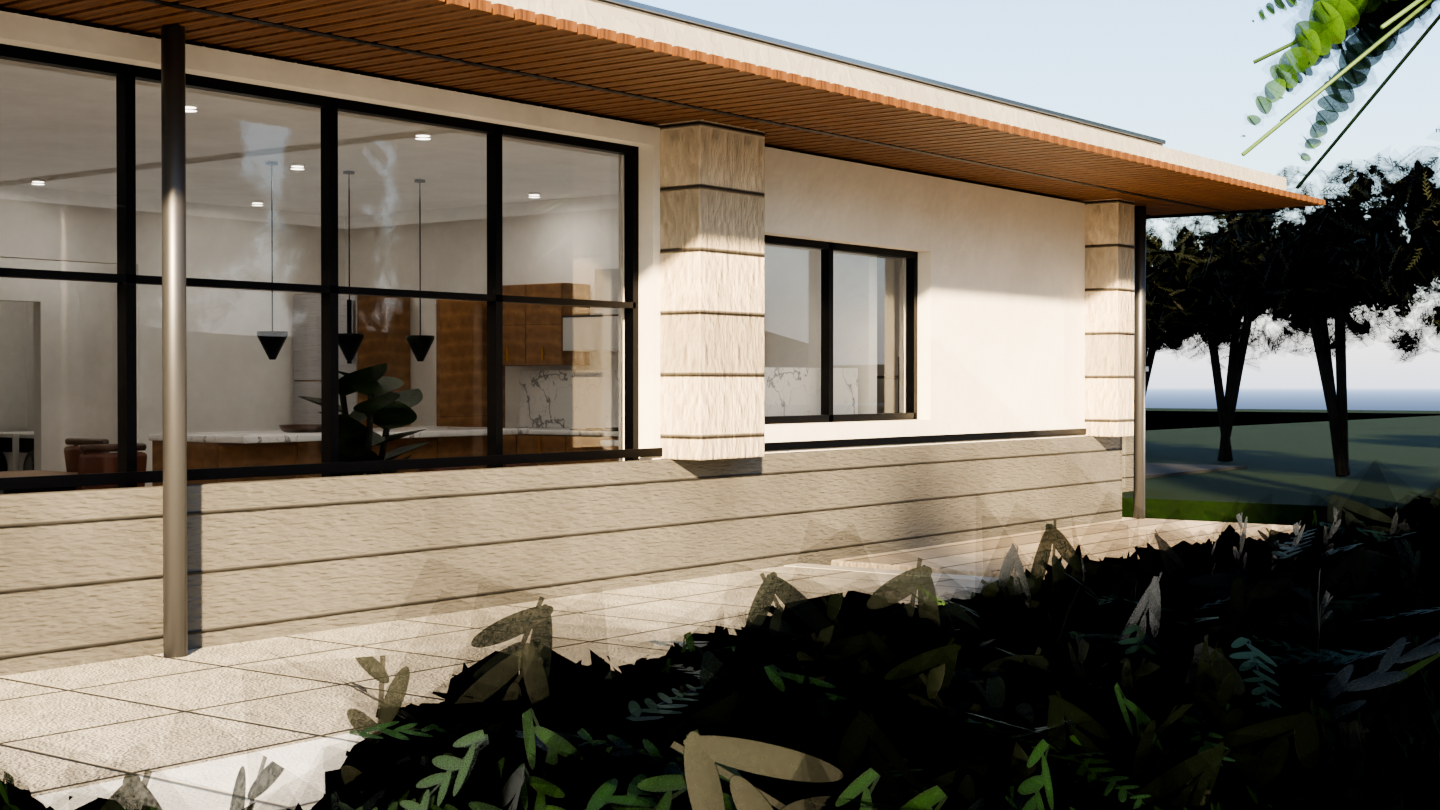
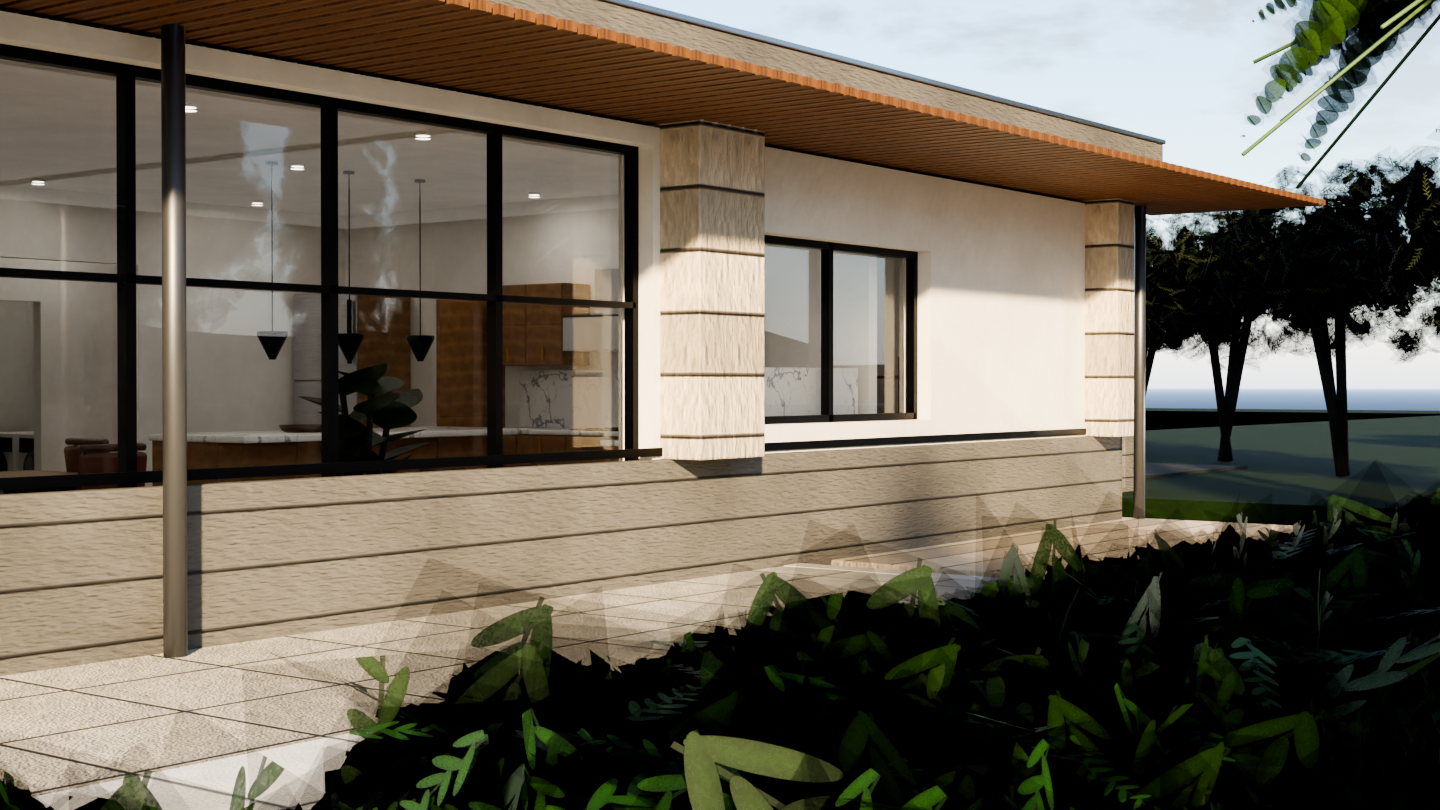
Villa v2 render pass 2: clouds, honest leaf albedo, a real entrance
- world shader: cumulus field sampled along the view direction (_sky_clouds); a flat
  physical-sky gradient was the loudest CGI tell. Cloud frequency tuned by test render
  (2.4 = one smear, 26 = TV static, 9 = weather)
- leaf sprays lifted ~1.6x: v1's 0.04 linear albedo rendered hedges at RGB 14/14/12, i.e.
  black; a real leaf is 0.09-0.15 linear. Translucency mix 0.22 -> 0.30
- entrance rebuilt: door closed and recessed 0.19 m with cedar lining, threshold, pull bar;
  1.45 m canopy with black fascia, timber soffit and two posts; gate caps are dark stone
  because polished metal facing up mirrors the sky and renders as a glowing white box
- exterior exposure -0.25 -> -0.55, sky strength 0.30 -> 0.42, entry bounce 420 W not cut
- hero_garden reframed (2.55 m eye, 33 mm); hero_entry recomposed on the driveway axis
- all 8 stills re-rendered 1440x810/96 spp; GLBs re-exported (723 meshes / 599,282 tris /
  75 materials, alphaMode MASK on 6 card materials, re-import PASS)

diff --git a/villa_src/build_v2.py b/villa_src/build_v2.py
@@ -132,6 +132,68 @@ def build(with_site=True):
     return sc_, ext
 
 
+def _sky_clouds(world, scale=9.0, cover0=0.50, cover1=0.61, brightness=3.1):
+    """Put a cumulus field in the world shader.
+
+    A physical sky on its own renders as a flat, pale gradient, which is the loudest
+    "this is CGI" tell in an exterior. Clouds are a noise field sampled along the view
+    direction: they converge at the horizon for free (perspective of the dome), cost one
+    texture lookup, and they also break up the environment light so surfaces are not lit
+    by a perfectly uniform dome.
+    """
+    if not (world and world.node_tree):
+        return None
+    nt = world.node_tree
+    bg = next((n for n in nt.nodes if n.type == "BACKGROUND"), None)
+    if bg is None or not bg.inputs["Color"].links:
+        return None
+    base = bg.inputs["Color"].links[0].from_socket
+    tc = nt.nodes.new("ShaderNodeTexCoord")
+    tc.location = (-1000, 300)
+    sep = nt.nodes.new("ShaderNodeSeparateXYZ")
+    sep.location = (-820, 420)
+    nt.links.new(tc.outputs["Generated"], sep.inputs["Vector"])
+    mp = nt.nodes.new("ShaderNodeMapping")
+    mp.location = (-820, 200)
+    mp.inputs["Scale"].default_value = (1.0, 1.0, 2.6)   # squash z: flat, layer-like cloud
+    nt.links.new(tc.outputs["Generated"], mp.inputs["Vector"])
+    n1 = nt.nodes.new("ShaderNodeTexNoise")
+    n1.location = (-620, 240)
+    n1.inputs["Scale"].default_value = scale
+    n1.inputs["Detail"].default_value = 5.0
+    n1.inputs["Roughness"].default_value = 0.58
+    n1.inputs["Distortion"].default_value = 0.18
+    nt.links.new(mp.outputs["Vector"], n1.inputs["Vector"])
+    ramp = nt.nodes.new("ShaderNodeValToRGB")
+    ramp.location = (-420, 240)
+    ramp.color_ramp.elements[0].position = cover0
+    ramp.color_ramp.elements[1].position = cover1
+    nt.links.new(n1.outputs["Fac"], ramp.inputs["Fac"])
+    # no clouds below the horizon (they would show through the ground edges)
+    hmask = nt.nodes.new("ShaderNodeMapRange")
+    hmask.location = (-420, 20)
+    hmask.inputs["From Min"].default_value = 0.03
+    hmask.inputs["From Max"].default_value = 0.30
+    nt.links.new(sep.outputs["Z"], hmask.inputs["Value"])
+    mul = nt.nodes.new("ShaderNodeMath")
+    mul.operation = "MULTIPLY"
+    mul.location = (-200, 140)
+    nt.links.new(ramp.outputs["Color"], mul.inputs[0])
+    nt.links.new(hmask.outputs["Result"], mul.inputs[1])
+    clim = nt.nodes.new("ShaderNodeRGB")
+    clim.location = (-200, -120)
+    clim.outputs[0].default_value = (brightness, brightness * 0.985, brightness * 0.96, 1.0)
+    mix = nt.nodes.new("ShaderNodeMix")
+    mix.data_type = "RGBA"
+    mix.location = (60, 40)
+    mix.inputs[0].default_value = 0.0
+    nt.links.new(mul.outputs["Value"], mix.inputs[0])
+    nt.links.new(base, mix.inputs[6])
+    nt.links.new(clim.outputs[0], mix.inputs[7])
+    nt.links.new(mix.outputs[2], bg.inputs["Color"])
+    return mix
+
+
 def lighting_v2(sc):
     """Late-afternoon raking sun: the single biggest change in the whole rebuild."""
     world = sc.world
@@ -143,10 +205,11 @@ def lighting_v2(sc):
             sky.sun_rotation = math.radians(232.0)      # from the south-west, low
             sky.sun_intensity = 1.0
             sky.altitude = 40.0
-            sky.aerosol_density = 2.6
+            sky.aerosol_density = 1.55
             sky.air_density = 1.1
         if bg:
-            bg.inputs["Strength"].default_value = 0.30   # sky as light
+            bg.inputs["Strength"].default_value = 0.42   # sky as light (fill for shade)
+    _sky_clouds(world)
     sun = bpy.data.objects.get("Sun")
     if sun:
         el = math.radians(20.0)
@@ -179,9 +242,9 @@ def lighting_v2(sc):
     # otherwise be the only dead-black wall on the house
     lg2 = bpy.data.lights.new("entry_bounce", type="AREA")
     lg2.shape = "RECTANGLE"
-    lg2.size, lg2.size_y = 4.0, 3.0
-    lg2.energy = 260.0
-    lg2.color = (1.0, 0.94, 0.88)
+    lg2.size, lg2.size_y = 6.0, 4.0
+    lg2.energy = 420.0
+    lg2.color = (1.0, 0.92, 0.84)
     ob2 = bpy.data.objects.new("entry_bounce", lg2)
     sc.collection.objects.link(ob2)
     ob2.location = (24.5, 5.2, 2.2)
@@ -218,7 +281,7 @@ def _setup_view(name):
     interior = name in ("living", "living_wide", "kitchen", "dining", "master", "corridor",
                         "foyer", "bed2", "bath", "study")
     sc = bpy.context.scene
-    sc.view_settings.exposure = (0.55 if interior else -0.25)
+    sc.view_settings.exposure = (0.55 if interior else -0.55)
     for ob in bpy.data.objects:
         if ob.type != "LIGHT":
             continue
@@ -226,7 +289,9 @@ def _setup_view(name):
             ob.data.energy = ob.get("_base", ob.data.energy)
             if "_base" not in ob:
                 ob["_base"] = ob.data.energy
-            if not interior and ob.name != "terrace_bounce":
+            # the terrace bounce stays for every view; the entry bounce is only ever
+            # there to lift the shaded east facade, so it is *not* cut on exteriors
+            if not interior and ob.name not in ("terrace_bounce", "entry_bounce"):
                 ob.data.energy *= 0.35
     return interior
 

diff --git a/villa_src/arch_v2.py b/villa_src/arch_v2.py
@@ -77,14 +77,43 @@ def facade_extras(coll):
                          mat="travertine_clad", bevel=0.006, coll=coll))
         out.append(K.box(f"head_n{i}", (b - a + 0.16, 0.20, 0.06), ((a + b) / 2, D + 0.04, 2.44),
                          mat="lime_render", bevel=0.004, coll=coll))
-    # east side: entry canopy + door surround
-    out.append(K.box("entry_canopy", (0.30, 2.60, 0.16), (W + 0.30, 5.20, 2.62),
-                     mat="timber_slat", bevel=0.008, coll=coll))
-    for i in range(6):
-        out.append(K.box(f"canopy_batten{i}", (0.10, 2.60, 0.05), (W + 0.44, 5.20,
-                                                                 2.48 - i * 0.055),
-                         mat="timber_slat", coll=coll))
-    out.append(K.box("entry_step", (0.90, 2.40, 0.09), (W + 0.42, 5.20, 0.045),
+    # ---- entry: a recessed, lined doorway under a real canopy on two posts.
+    # The v1 entrance was a flat walnut panel stuck on a blank wall - that is what made
+    # the front of the house read as a garage. A doorway reads as an entrance when it has
+    # (a) depth, (b) a lining that catches light differently from the render, (c) a
+    # shadow across the head, and (d) something to touch: hardware.
+    # `door_front` now sits closed and 0.19 m inside the outer wall face (shell.py).
+    for i, (y0, y1) in enumerate(((4.45, 4.51), (5.89, 5.95))):
+        out.append(K.slab(f"entry_jamb{i}", 18.74, y0, W, y1, 0.0, 2.36, "cedar",
+                          bevel=0.005, coll=coll))
+    out.append(K.slab("entry_head", 18.74, 4.45, W, 5.95, 2.29, 2.36, "cedar",
+                      bevel=0.005, coll=coll))
+    out.append(K.slab("entry_thresh", 18.62, 4.45, W, 5.95, 0.0, 0.028, "black_steel",
+                      coll=coll))
+    # long vertical pull bar + its standoffs (a pivot-door handle)
+    out.append(K.cyl("entry_pull", 0.019, 1.10, (18.85, 5.78, 1.15),
+                     mat="black_steel", seg=16, coll=coll))
+    for i, z in enumerate((0.64, 1.66)):
+        out.append(K.box(f"entry_pull_mtg{i}", (0.055, 0.028, 0.028), (18.83, 5.78, z),
+                         mat="black_steel", coll=coll))
+    # canopy: 1.45 m deep slab over the door, dark fascia, timber soffit, steel posts
+    out.append(K.slab("entry_canopy", W, 4.00, W + 1.45, 6.40, 2.62, 2.78, "lime_render",
+                      bevel=0.01, coll=coll))
+    out.append(K.slab("canopy_fascia_e", W + 1.37, 4.00, W + 1.46, 6.40, 2.55, 2.78,
+                      "black_steel", bevel=0.006, coll=coll))
+    for nm, y0, y1 in (("s", 4.00, 4.09), ("n", 6.31, 6.40)):
+        out.append(K.slab(f"canopy_fascia_{nm}", W, y0, W + 1.46, y1, 2.55, 2.78,
+                          "black_steel", bevel=0.006, coll=coll))
+    n_bat = 14
+    for i in range(n_bat):
+        y = 4.12 + i * (2.16 / (n_bat - 1))
+        out.append(K.box(f"canopy_batten{i}", (1.30, 0.085, 0.045),
+                         (W + 0.70, y, 2.575), mat="timber_slat", coll=coll))
+    for i, y in enumerate((4.13, 6.27)):
+        out.append(K.box(f"canopy_post{i}", (0.085, 0.085, 2.62),
+                         (W + 1.32, y, 1.31), mat="black_steel", bevel=0.004,
+                         coll=coll))
+    out.append(K.box("entry_step", (1.05, 2.40, 0.09), (W + 0.38, 5.20, 0.045),
                      mat="stone_paving", bevel=0.01, coll=coll))
 
     # ---- timber-slat soffit under the roof overhang (south + entry sides)
@@ -187,8 +216,10 @@ def site_v2(coll):
     for i, y in enumerate((2.60, 9.00)):
         out.append(K.box(f"gate_pier{i}", (0.55, 0.55, 1.55), (24.60, y, 0.72),
                          mat="board_concrete", bevel=0.01, coll=coll))
-        out.append(K.box(f"gate_cap{i}", (0.65, 0.65, 0.07), (24.60, y, 1.52),
-                         mat="alu_trim", bevel=0.006, coll=coll))
+        # a dark stone cap, not polished metal: a metal top face mirrors the sky and
+        # renders as a glowing white box, which is what killed the first entry shot
+        out.append(K.box(f"gate_cap{i}", (0.60, 0.60, 0.07), (24.60, y, 1.52),
+                         mat="roof_membrane", bevel=0.006, coll=coll))
     # forecourt paving in front of the entry, with a planting strip either side
     out.append(K.slab("forecourt", 19.55, 3.60, 24.30, 8.20, -0.19, 0.04, "stone_paving",
                       coll=coll))

diff --git a/villa_src/tex_gen2.py b/villa_src/tex_gen2.py
@@ -343,21 +343,27 @@ def main():
     os.makedirs(OUT, exist_ok=True)
     print("tex_gen2 ->", os.path.abspath(OUT), flush=True)
     # vegetation: spray cards (canopies) + single-leaf cards (palms, agave, grass)
+    # Leaf albedo is a *linear* value: v1's 0.04 read as sRGB 0.22 and, once a hedge is
+    # out of direct sun, rendered almost black (measured mean RGB 14/14/12). A real leaf
+    # is 0.09-0.15 linear, so the sprays are lifted by ~1.6x.
     leaf_spray("spray_a", 2001, leaves=9, spread=58, leaf_len=0.21, leaf_w=0.055,
-               hue=(0.050, 0.120, 0.025), tip=(0.10, 0.210, 0.048), droop=0.30)
+               hue=(0.080, 0.190, 0.040), tip=(0.160, 0.330, 0.076), droop=0.30)
     leaf_spray("spray_b", 2013, leaves=11, spread=48, leaf_len=0.17, leaf_w=0.042,
-               hue=(0.042, 0.105, 0.023), tip=(0.085, 0.190, 0.042), droop=0.20)
+               hue=(0.068, 0.168, 0.037), tip=(0.135, 0.300, 0.067), droop=0.20)
     leaf_spray("spray_c", 2027, leaves=7, spread=64, leaf_len=0.24, leaf_w=0.062,
-               hue=(0.070, 0.145, 0.035), tip=(0.130, 0.240, 0.060), droop=0.40)
+               hue=(0.110, 0.230, 0.055), tip=(0.205, 0.380, 0.095), droop=0.40)
+    # the "inner canopy" spray is the workhorse of every shrub in the model: at v1's
+    # near-black (0.012) the whole hedge rendered as a black smear, so it is lifted to a
+    # believable shaded-leaf green and relies on the lighting to keep it dark
     leaf_spray("spray_dark", 2051, leaves=10, spread=52, leaf_len=0.19, leaf_w=0.048,
-               hue=(0.012, 0.030, 0.008), tip=(0.030, 0.065, 0.016), droop=0.25)
+               hue=(0.062, 0.128, 0.037), tip=(0.125, 0.235, 0.070), droop=0.25)
     leaf_spray("spray_olive", 2039, leaves=13, spread=40, leaf_len=0.15, leaf_w=0.022,
-               hue=(0.100, 0.130, 0.070), tip=(0.170, 0.190, 0.110), droop=0.15)
-    leaf_card("leaf_card_a", 1001, hue=(0.10, 0.235, 0.045), tip=(0.24, 0.44, 0.11),
+               hue=(0.140, 0.180, 0.098), tip=(0.235, 0.262, 0.152), droop=0.15)
+    leaf_card("leaf_card_a", 1001, hue=(0.075, 0.175, 0.034), tip=(0.18, 0.33, 0.082),
               width=0.40, veins=7, dry=0.10)
-    leaf_card("leaf_card_b", 1013, hue=(0.075, 0.185, 0.038), tip=(0.20, 0.36, 0.085),
+    leaf_card("leaf_card_b", 1013, hue=(0.056, 0.139, 0.028), tip=(0.15, 0.27, 0.064),
               width=0.34, serrate=1.0, veins=6)
-    leaf_card("leaf_card_c", 1027, hue=(0.13, 0.265, 0.06), tip=(0.32, 0.46, 0.15),
+    leaf_card("leaf_card_c", 1027, hue=(0.098, 0.199, 0.045), tip=(0.24, 0.345, 0.113),
               width=0.46, veins=8, dry=0.18)
     leaf_card("leaf_card_olive", 1031, hue=(0.17, 0.21, 0.095), tip=(0.30, 0.34, 0.165),
               width=0.22, veins=5)

diff --git a/villa_src/mats.py b/villa_src/mats.py
@@ -254,11 +254,11 @@ def build(name):
             nt.links.new(nm.outputs["Normal"], bsdf.inputs["Normal"])
         # Foliage transmits light: a mix of diffuse and translucent is what makes a
         # canopy glow at the edges instead of reading as painted cardboard. Kept low
-        # (0.28) because full translucency washes the leaves out to near-white.
+        # (0.30) because full translucency washes the leaves out to near-white.
         tr = _node(nt, "ShaderNodeBsdfTranslucent", (0, 120))
         nt.links.new(tex.outputs["Color"], tr.inputs["Color"])
         mix = _node(nt, "ShaderNodeMixShader", (300, 60))
-        mix.inputs["Fac"].default_value = 0.22
+        mix.inputs["Fac"].default_value = 0.30
         nt.links.new(bsdf.outputs["BSDF"], mix.inputs[1])
         nt.links.new(tr.outputs["BSDF"], mix.inputs[2])
         nt.links.new(mix.outputs["Shader"], out.inputs["Surface"])

diff --git a/villa_src/shell.py b/villa_src/shell.py
@@ -218,8 +218,9 @@ def build_shell(colls):
 
     doors = []
     D_ = colls["doors"]
-    doors.append(door_leaf("door_front", "y", 4.45, 5.95, IX1 + 0.15, 2.35, "walnut",
-                           D_, swing=26))
+    # closed and set 0.19 m inside the outer face, so the opening reads as a real recess
+    doors.append(door_leaf("door_front", "y", 4.45, 5.95, IX1 - 0.07, 2.35, "walnut",
+                           D_, swing=0))
     doors.append(door_leaf("door_master", "x", 4.15, 5.05, 7.85, 2.10, coll=D_, swing=100))
     doors.append(door_leaf("door_bed2", "x", 8.05, 8.95, 7.85, 2.10, coll=D_, swing=96))
     doors.append(door_leaf("door_laundry", "x", 11.85, 12.60, 7.85, 2.10, coll=D_, swing=98))

diff --git a/villa_src/cameras_v2.py b/villa_src/cameras_v2.py
@@ -7,9 +7,9 @@ standing height with a wide angle).
 """
 SHOTS = {
     # ---- exterior (hero)
-    "hero_garden":   ((7.00, -16.20, 1.85), (9.60, 3.0, 1.70), 35.0),
+    "hero_garden":   ((6.60, -13.60, 2.55), (9.60, 3.0, 1.70), 33.0),
     "hero_pool":     ((22.80, -7.40, 1.95), (12.40, 2.6, 1.75), 30.0),
-    "hero_entry":    ((22.90, 10.20, 2.15), (18.90, 5.30, 1.55), 30.0),
+    "hero_entry":    ((27.60, 6.95, 1.85), (19.35, 5.10, 1.50), 35.0),
     "hero_dusk":     ((4.20, -19.0, 2.10), (9.0, 3.0, 1.90), 26.0),
     "hero_aerial":   ((9.50, -24.0, 16.0), (9.5, 3.0, 0.0), 30.0),
     "detail_terrace": ((3.10, -7.40, 1.35), (9.4, -2.6, 1.25), 45.0),

diff --git a/VILLA_V2.md b/VILLA_V2.md
@@ -49,7 +49,7 @@ plastic snow.
 second, darker, denser clump cloud *inside* to occlude light. A single shell reads as a
 powder puff; a solid sphere inside reads as a golf ball. Both were rendered and rejected.
 
-**Foliage transmits light.** Card materials are a 0.22 mix of diffuse and translucent, and
+**Foliage transmits light.** Card materials are a 0.30 mix of diffuse and translucent, and
 the albedo is deliberately dark (0.6–0.88 of the leaf colour) because a leaf reflects only
 10–25 % of light. Bright leaves render as pale flowers.
 
@@ -73,6 +73,24 @@ from the sides and never stand between the camera and the glass.
 **The horizon needs landscape.** A ground plane meeting the sky is an obvious CG tell, so
 there is a deterministic two-band ridge 150–240 m out.
 
+**The sky is geometry too.** A physical sky on its own renders as a flat pale gradient — the
+loudest "this is CGI" tell in any exterior. `_sky_clouds()` mixes a noise field sampled along
+the view direction into the world colour: cumulus that converge at the horizon for free (it
+is the perspective of the dome), one texture lookup, and they also break up the environment
+light so surfaces are no longer lit by a perfectly uniform dome. Cloud frequency is the whole
+trick: scale 2.4 gives one blurry smear (nothing), scale 26 gives TV static, scale 9 reads as
+weather.
+
+**An entrance needs depth.** The v1 front door was a flat walnut panel on a blank wall, which
+is why the east elevation read as a garage. The door is now closed and set 0.19 m inside the
+outer face, lined with cedar jambs and head, with a threshold, a vertical pull bar and a
+1.45 m canopy on two steel posts with a dark fascia and a timber soffit. The recess is what
+makes the shot: it produces the one strong shadow on that elevation.
+
+**Metal on a horizontal surface is a mirror.** The gate-pier caps were polished aluminium;
+facing straight up at a bright sky they rendered as glowing white boxes. Caps are now dark
+non-metallic stone — the same lesson as the khaki lawn, one storey up.
+
 ---
 
 ## Deliverables
@@ -80,8 +98,8 @@ there is a deterministic two-band ridge 150–240 m out.
 | File | What |
 |---|---|
 | `villa_v2/villa_v2.blend` | editable scene: v1 shell + furniture + v2 exterior, garden, lights, cameras |
-| **`villa_v2/villa_v2.glb`** | **whole-site GLB, 50 MB, 1024² textures, 703 meshes, 598 k tris, Y-up** |
-| **`villa_v2/villa_v2_web.glb`** | same model at 512² textures, 39 MB — use this for web viewers |
+| **`villa_v2/villa_v2.glb`** | **whole-site GLB, 51.9 MB, 1024² textures, 723 meshes, 599 k tris, Y-up** |
+| **`villa_v2/villa_v2_web.glb`** | same model at 512² textures, 40.9 MB — use this for web viewers |
 | `villa_v2/glb_report.json` | the export verification (source vs re-imported) |
 | `villa_v2/*.png` | renders (1440 × 810, Cycles, 96 spp, denoised) |
 | `villa_v2/contact_sheet.png` | all 8 shots on one page |
@@ -99,10 +117,10 @@ regenerated by the one-liner below. Everything else in `villa_v2/` is committed.
 
 | Check | Result |
 |---|---|
-| Re-import into an empty scene | 703 meshes, 598,226 tris — identical to the source |
+| Re-import into an empty scene | 723 meshes, 599,282 tris — identical to the source |
 | Bounding box after re-import (Y-up) | `[700.0, 315.0, 19.75]` m — identical |
-| Materials | 74 / 74 |
-| Images | 110 packed (104 JPEG + 6 PNG) |
+| Materials | 75 / 75 |
+| Images | 110 packed (104 JPEG + 6 PNG, from 113 material slots) |
 | Foliage alpha | 6 materials, `alphaMode: MASK`, `alphaCutoff 0.4`, `doubleSided: true` |
 | Render from the GLB itself | `/tmp` test render: the house, shrubs, hedges and treeline all read correctly from the imported file |
 
@@ -148,4 +166,13 @@ Render times measured on 2 vCPU: 900 × 506 @ 24 spp ≈ 35–46 s per view; 144
 - **The interior is v1 geometry** with better light; it has not been re-modelled.
 - **The pool water** is a ripple normal map on a flat plane — no refraction through depth, no
   caustics.
+- **`hero_entry` is the weakest exterior.** The east elevation faces away from the sun, so it
+  is lit by sky and a 420 W bounce card. It is plausible archviz lighting, not great archviz
+  lighting; the fix would be a second sun or a full HDRI, which the environment cannot
+  produce.
+- **Clouds are procedural**, so they are plausible rather than specific — no sun shafts, no
+  cloud shadows on the ground.
+- **The GLB carries no cameras, lights or world.** A viewer supplies its own sky and IBL, so
+  the model in a browser looks flatter and more evenly lit than these renders. It is also
+  598 k triangles: fine on a desktop GPU, heavy for mobile.
 - I did not re-render the walkthrough video for v2.
